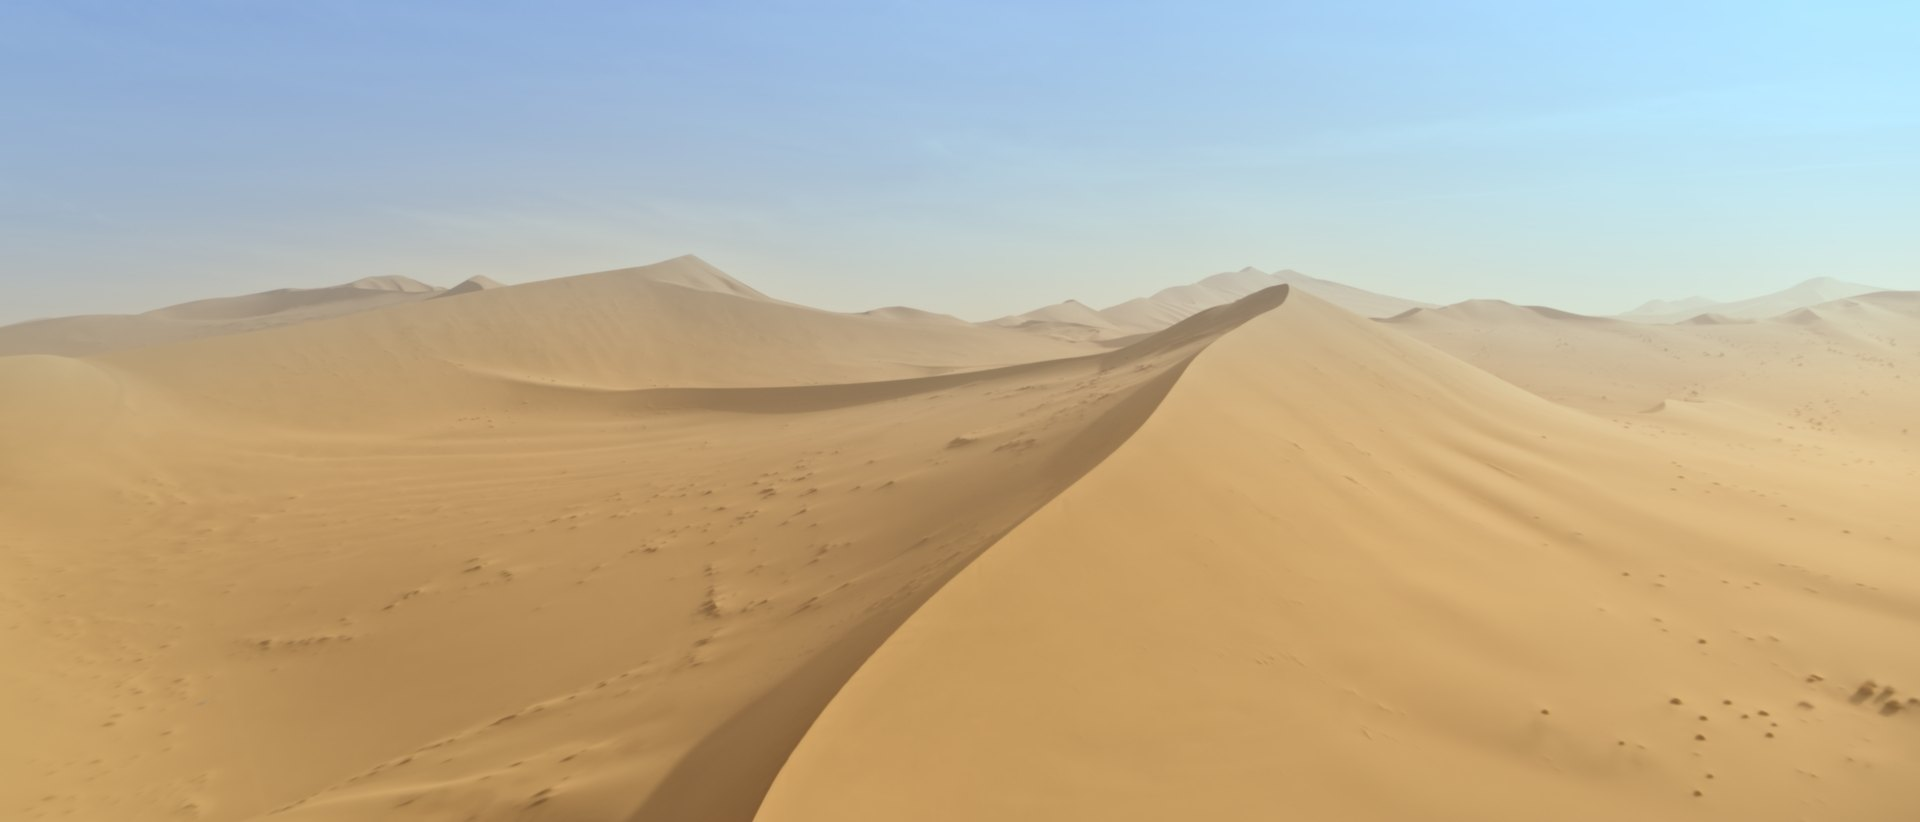
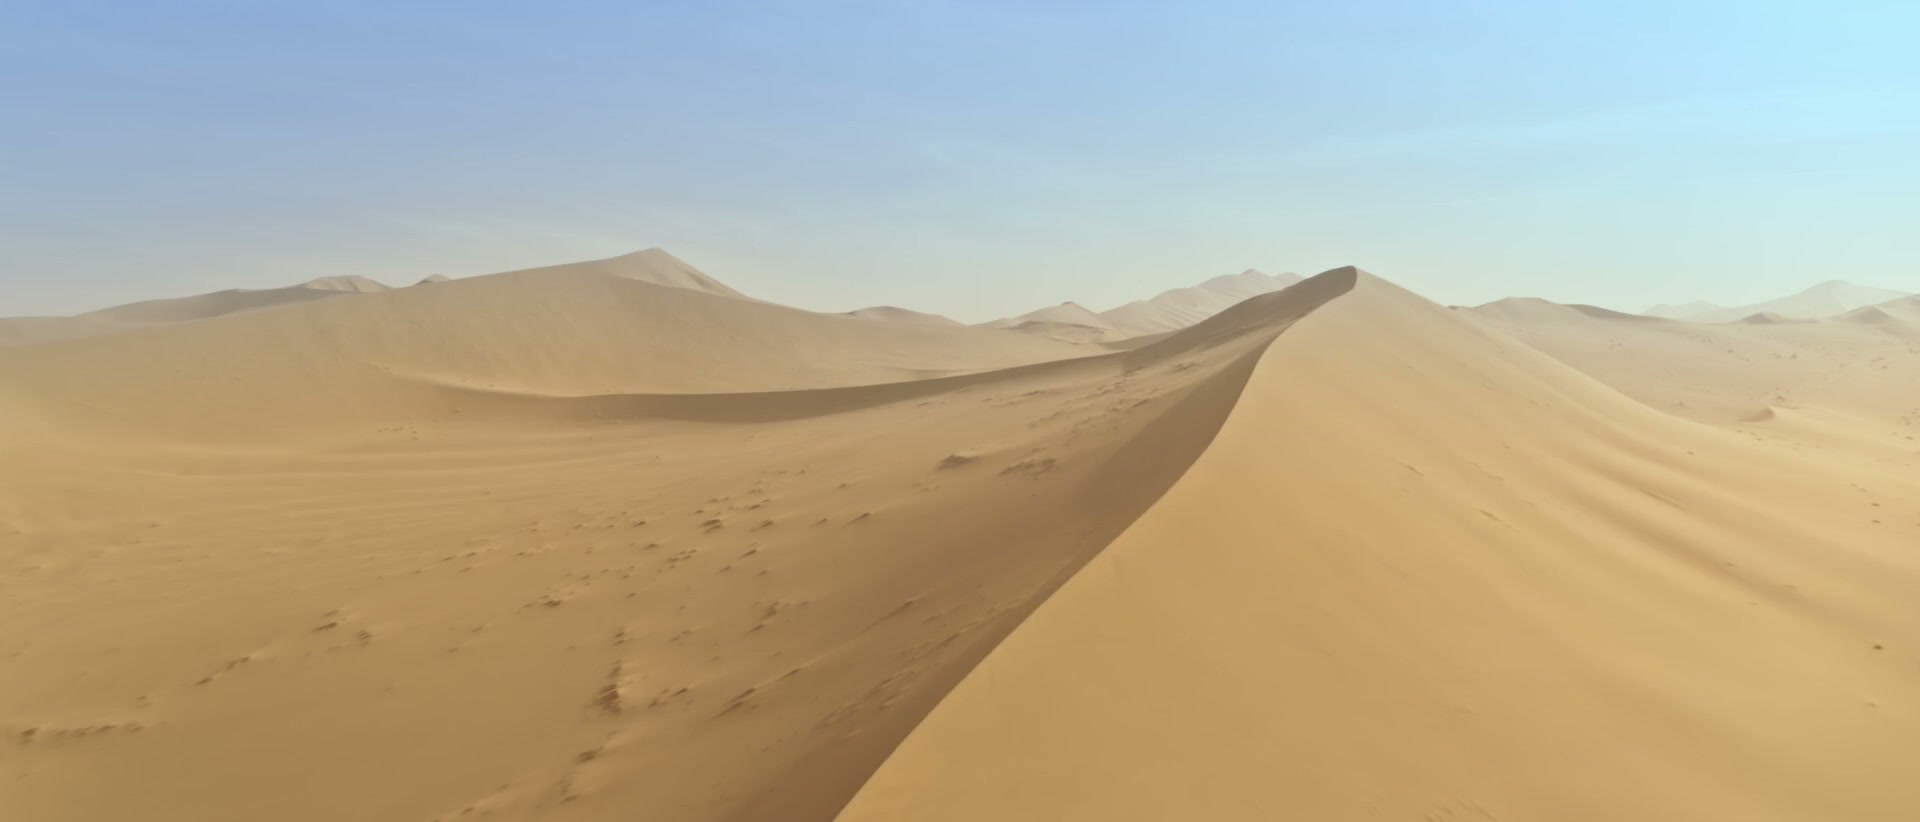
drone: hover restart-from-0 + loop; d05 still = video first frame

diff --git a/index.html b/index.html
@@ -318,7 +318,9 @@ footer{
 .drone-shot{border-radius:var(--radius);overflow:hidden;background:rgba(28,26,22,.05);aspect-ratio:21/9;position:relative;cursor:pointer}
 .drone-shot img{position:absolute;inset:0;width:100%;height:100%;object-fit:cover;transition:transform 1.2s cubic-bezier(.2,.6,.2,1)}
 .drone-shot:hover img{transform:scale(1.02)}
-.drone-vid{position:absolute;inset:0;width:100%;height:100%;object-fit:cover;pointer-events:none}
+.drone-vid{position:absolute;inset:0;width:100%;height:100%;object-fit:cover;opacity:0;transition:opacity .25s;pointer-events:none}
+.drone-shot:hover .drone-vid{opacity:1}
+@media (hover: none){.drone-vid{display:none}}
 @media (max-width: 620px){.drone-shot{aspect-ratio:16/9}}
 
 /* ============ FILTERS ============ */
@@ -719,11 +721,11 @@ footer{
     <p data-i18n="droneDesc">Commercial drone pilot — aerial stills from the archive.</p>
   </div>
   <div class="drone-grid">
-    <div class="drone-shot lg"><img src="photos/drone/d01.jpg" alt="Aerial still" loading="lazy"><video class="drone-vid" muted playsinline loop preload="auto" autoplay src="photos/drone/hover_d01.mp4"></video></div>
-    <div class="drone-shot"><img src="photos/drone/d02.jpg" alt="Aerial still" loading="lazy"><video class="drone-vid" muted playsinline loop preload="auto" autoplay src="photos/drone/hover_d02.mp4"></video></div>
-    <div class="drone-shot"><img src="photos/drone/d03.jpg" alt="Aerial still" loading="lazy"><video class="drone-vid" muted playsinline loop preload="auto" autoplay src="photos/drone/hover_d03.mp4"></video></div>
-    <div class="drone-shot"><img src="photos/drone/d04.jpg" alt="Aerial still" loading="lazy"><video class="drone-vid" muted playsinline loop preload="auto" autoplay src="photos/drone/hover_d04.mp4"></video></div>
-    <div class="drone-shot"><img src="photos/drone/d05.jpg" alt="Aerial still" loading="lazy"><video class="drone-vid" muted playsinline loop preload="auto" autoplay src="photos/drone/hover_d05.mp4"></video></div>
+    <div class="drone-shot lg"><img src="photos/drone/d01.jpg" alt="Aerial still" loading="lazy"><video class="drone-vid" muted playsinline loop preload="auto" src="photos/drone/hover_d01.mp4"></video></div>
+    <div class="drone-shot"><img src="photos/drone/d02.jpg" alt="Aerial still" loading="lazy"><video class="drone-vid" muted playsinline loop preload="auto" src="photos/drone/hover_d02.mp4"></video></div>
+    <div class="drone-shot"><img src="photos/drone/d03.jpg" alt="Aerial still" loading="lazy"><video class="drone-vid" muted playsinline loop preload="auto" src="photos/drone/hover_d03.mp4"></video></div>
+    <div class="drone-shot"><img src="photos/drone/d04.jpg" alt="Aerial still" loading="lazy"><video class="drone-vid" muted playsinline loop preload="auto" src="photos/drone/hover_d04.mp4"></video></div>
+    <div class="drone-shot"><img src="photos/drone/d05.jpg" alt="Aerial still" loading="lazy"><video class="drone-vid" muted playsinline loop preload="auto" src="photos/drone/hover_d05.mp4"></video></div>
   </div>
 </section>
 
@@ -1218,18 +1220,17 @@ document.querySelectorAll('.filter-btn').forEach(b => b.addEventListener('click'
 })();
 
 
-/* ============ DRONE AUTO PLAY ============ */
+/* ============ DRONE HOVER PLAY ============ */
 (function(){
-  if (!('IntersectionObserver' in window)) return;
-  const io = new IntersectionObserver((entries) => {
-    entries.forEach(en => {
-      const v = en.target.querySelector('video');
-      if (!v) return;
-      if (en.isIntersecting) { v.play().catch(() => {}); }
-      else { v.pause(); }
+  document.querySelectorAll('.drone-shot').forEach(shot => {
+    const v = shot.querySelector('video');
+    if (!v) return;
+    shot.addEventListener('mouseenter', () => {
+      v.currentTime = 0;           // restart from the beginning every hover
+      v.play().catch(() => {});
     });
-  }, { rootMargin: '100px' });
-  document.querySelectorAll('.drone-shot').forEach(s => io.observe(s));
+    shot.addEventListener('mouseleave', () => { v.pause(); });
+  });
 })();
 
 
